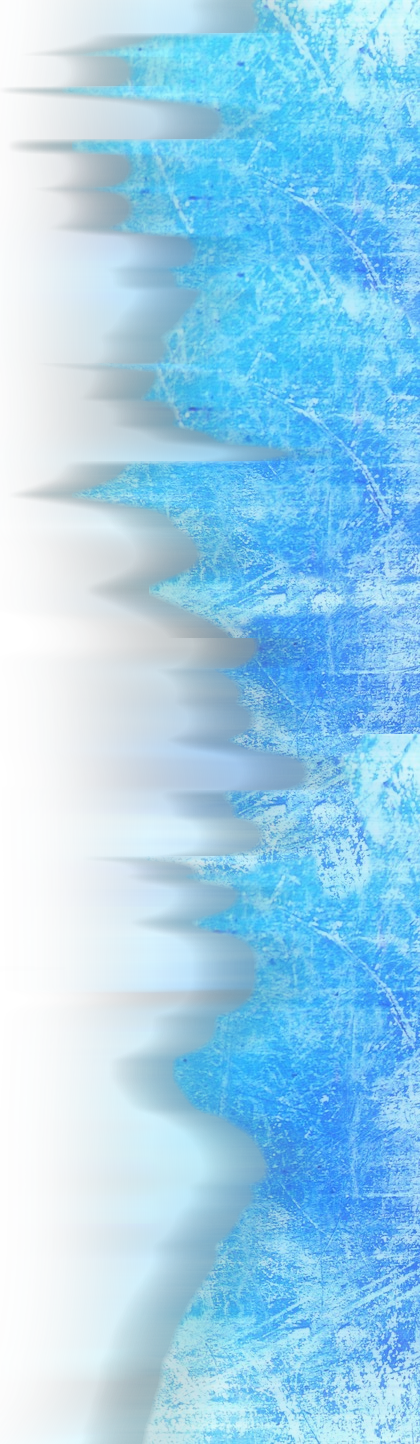
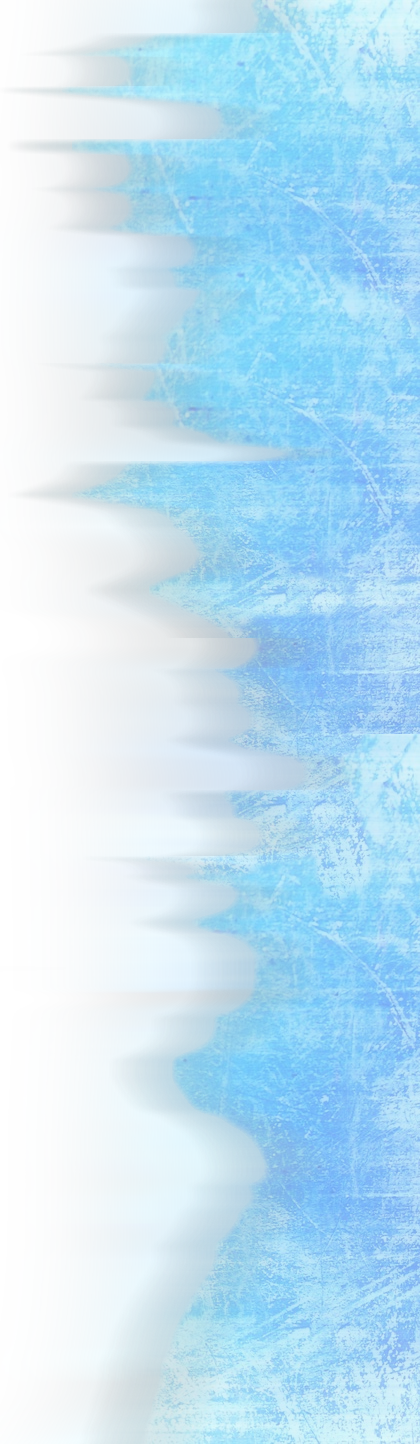
get rid of ice

diff --git a/src/main/resources/static/css/style.css b/src/main/resources/static/css/style.css
@@ -101,7 +101,7 @@ main {
         margin-left: var(--globalMar);
         margin-right: 3rem;
 
-        background-image: url(../img/ice_bg_fade.png);
+        background-image: url(../img/line_blur.png);
         background-size:cover;
         
         border: 2px solid black;
@@ -111,6 +111,7 @@ main {
         .form {
             text-align: center;
             margin-bottom: var(--globalMar);
+            color: white;
         }
 
         .form h2 {
